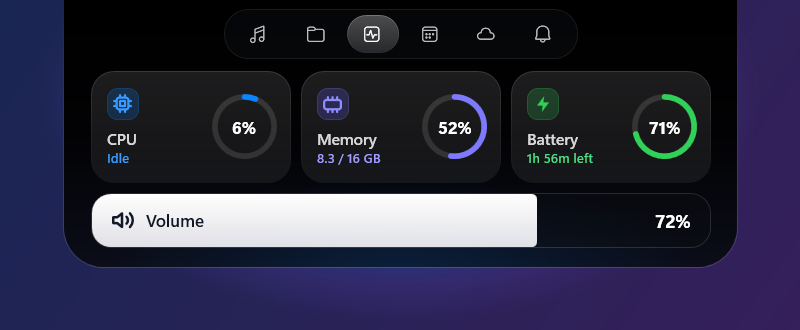
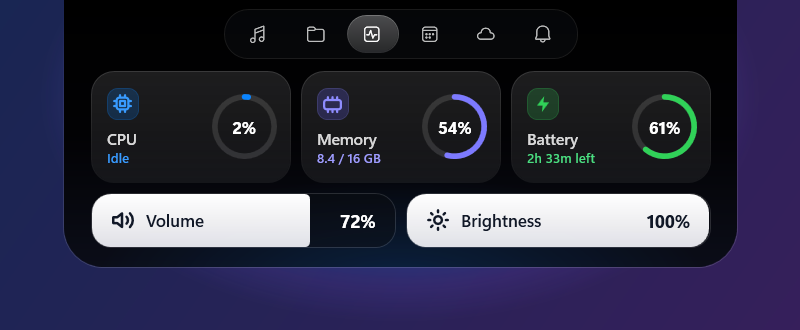
Update system screenshot and README for brightness control

diff --git a/README.md b/README.md
@@ -21,7 +21,7 @@
 - **Smooth, spring-based animations** – the notch grows and shrinks like a real island; interrupting it mid-way stays fluid.
 - **Music** – title, artist, album art, seek bar, shuffle/repeat and playback controls for Spotify, browsers and any app that reports media to Windows.
 - **File shelf** – drop files on the notch, then drag them out anywhere later.
-- **System** – CPU, memory (GB used), battery (time left) and an iOS-style volume slider.
+- **System** – CPU, memory (GB used), battery (time left) and iOS-style volume and brightness sliders (drag, click or scroll; brightness works on laptop displays).
 - **Calendar** – big clock, today's date and the current month.
 - **Weather** – your city, hourly forecast, UV index, wind and humidity.
 - **Notifications** – banners drop out of the notch; click one to open what it points to (e.g. the screenshot you just took). Clear one or all.
@@ -86,7 +86,7 @@ Right-click the open notch for:
 
 - **WPF on .NET 10** with WinRT APIs: `GlobalSystemMediaTransportControlsSessionManager` (media),
   `UserNotificationListener` (notifications), `Geolocator` (location).
-- **NAudio** for the system volume.
+- **NAudio** for the system volume, **WMI** (`WmiMonitorBrightness`) for display brightness.
 - Weather from **[Open-Meteo](https://open-meteo.com)**, city name from **OpenStreetMap Nominatim**; coordinates are rounded
   to about 1 km before they are sent.
 - Opening a clicked notification reads the toast's launch action from a copy of the Windows notification database
@@ -103,6 +103,7 @@ NotchWin/
 ├── Services/
 │   ├── MediaService.cs         now playing + controls
 │   ├── AudioService.cs         system volume
+│   ├── BrightnessService.cs    display brightness
 │   ├── SystemStats.cs          CPU, memory, battery
 │   ├── NotificationService.cs  reads Windows notifications
 │   ├── NotificationActivator.cs opens a clicked notification
